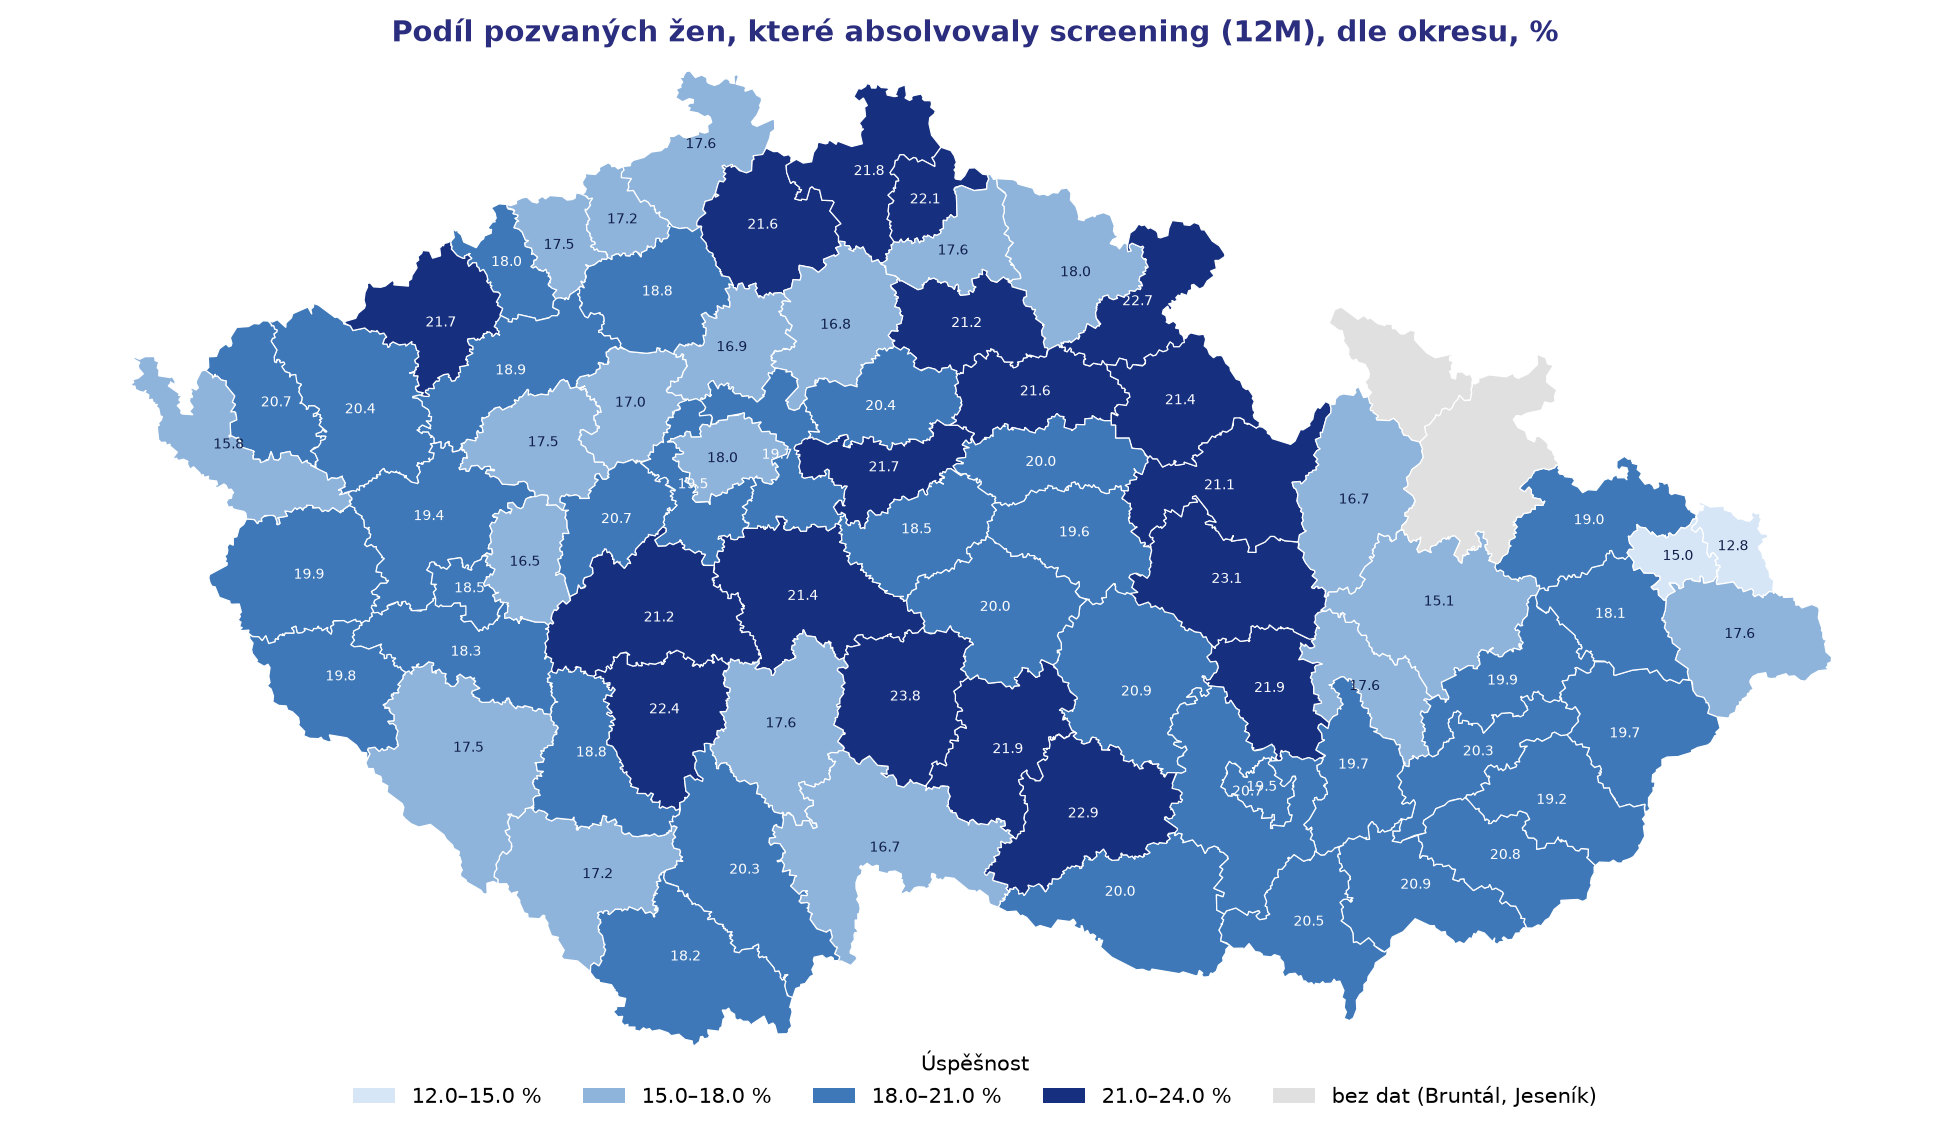
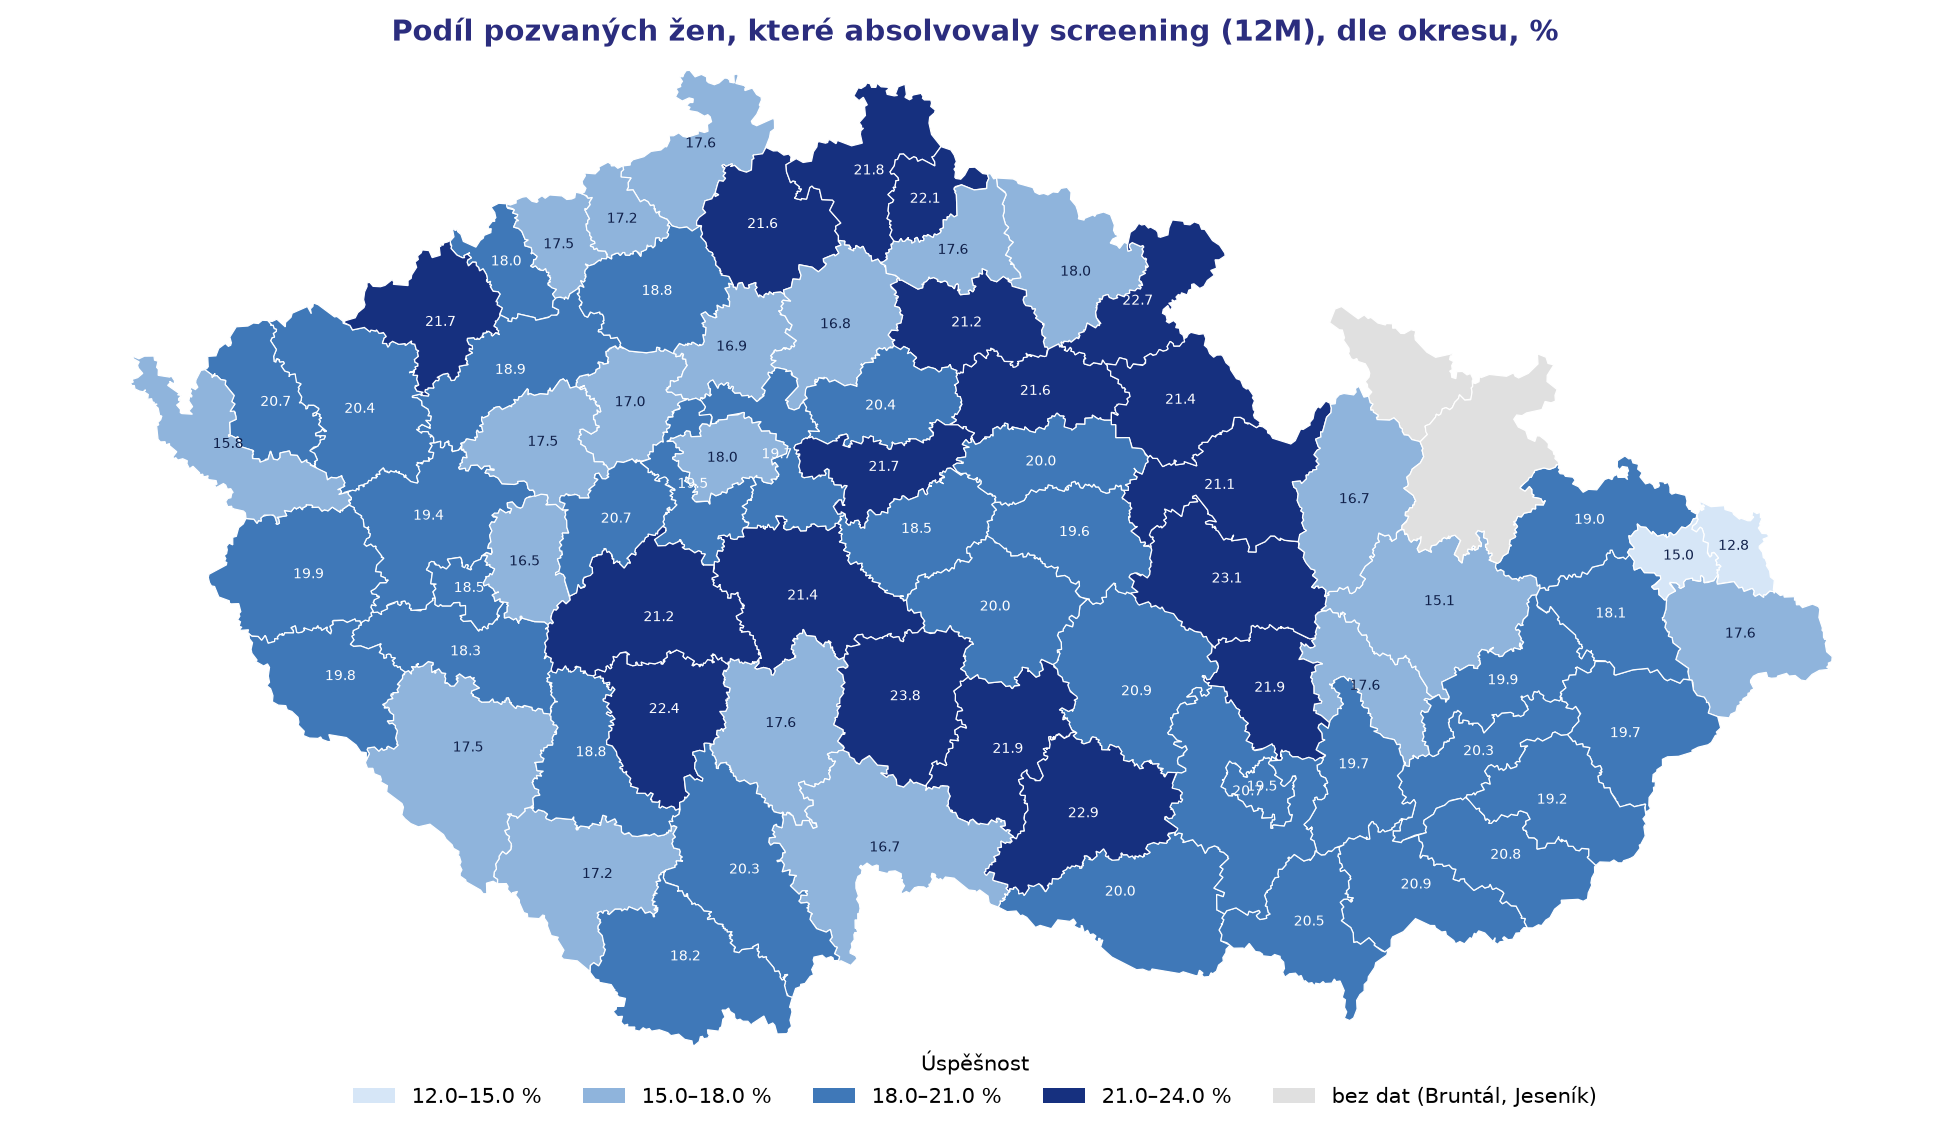
feat: rebase

diff --git a/preprocessing/pipeline.py b/preprocessing/pipeline.py
@@ -3,6 +3,8 @@
 1. spatial 01-03  screening centres, area coordinates, area spatial features
                   (web scraping / geocoding: run only if their output is missing,
                   so the first snapshot is kept; delete the file to refresh it)
+   external_data  ČSÚ population / foreigner statistics -> data/population/,
+                  data/foreigners/ (download; also skipped once present)
 2. prepare_data   fixes + engineered features -> data/Rakhaton2026_prepared.csv
 3. split          patient-level stratified split -> data/splits/{train,val,test}.csv
 4. validate_split checks the split files
@@ -28,6 +30,11 @@ STEPS = [
     (SPATIAL, "01_scrape_centers.py", DATA / "mamo_centers.csv"),
     (SPATIAL, "02_geocode_areas.py", DATA / "area_coordinates.csv"),
     (SPATIAL, "03_add_spatial_features.py", DATA / "area_spatial_features.csv"),
+    (
+        ROOT / "features",
+        "external_data.py",
+        DATA / "foreigners" / "foreign_women_by_citizenship_2024.csv",
+    ),
     (ROOT / "features", "prepare_data.py", None),
     (ROOT / "preprocessing", "split.py", None),
     (ROOT / "preprocessing", "validate_split.py", None),
